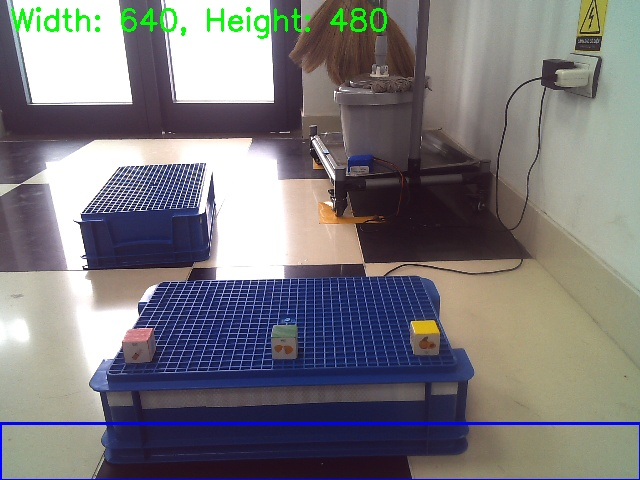
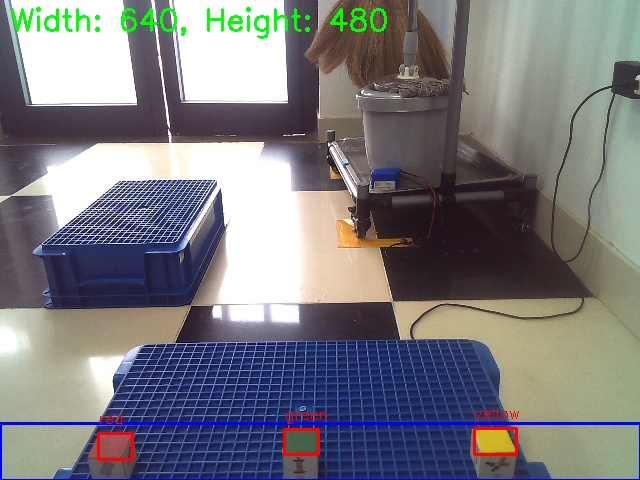
juan

diff --git a/tmp.py b/tmp.py
@@ -22,12 +22,10 @@ hold_angles = (90, 180, 0, 90, 90, 132)
 #     'yellow':[(10, 100, 100), (35, 255, 255)],
 # }
 color_ranges = {
-    #'red':   [(170, 70, 50), (180, 255, 255)],
-    # 'green': [(35, 40, 40),  (85, 255, 255)],
-    #'green': [(35, 80, 50), (85, 255, 255)],
+    'red':   [(170, 70, 50), (180, 255, 255)],
+    'green': [(30, 60, 50), (85, 255, 255)],
+    # 'green': [(40, 80, 50), (85, 255, 255)],
     'yellow':[(10, 100, 100), (35, 255, 255)],
-    'red':   [(0, 45, 35),   (12, 255, 255)],
-    'green': [(45, 45, 30),  (90, 255, 255)],
 }
 
 
@@ -70,12 +68,12 @@ if bb:
     print(f'[INFO] Detected bounding boxes: {bb} after running {traveled_result[0]:.2f}')
 
     _, _, yaw = bot.get_imu_attitude_data()
-    run_straight_robot(bot, target_yaw=yaw, base_speed=20, target_distance=0.036)
+    run_straight_robot(bot, target_yaw=yaw, base_speed=20, target_distance=0.03)
     rotate_robot(bot, 90, spd=0.2, delay=1)      # Rotate LEFT
 
     for box in bb:
         if box[0] == color:
-            speed_adjust, dist_adjust = calib_range(dist_calib, box[1], adj=0.2)
+            speed_adjust, dist_adjust = calib_range(dist_calib, box[1], adj=0.18)
             print(f'[INFO] Adjusted distance requirement: {dist_adjust:.2f} m')
     
     _, _, yaw = bot.get_imu_attitude_data()

diff --git a/utils.py b/utils.py
@@ -32,7 +32,7 @@ def normalize_angle(angle):
 def calib_range(dist_calib, bb_pxl, adj):
     position = 320 - (bb_pxl[0] + bb_pxl[2]/2)
     dist_adjust = position * dist_calib
-    dist_adjust = dist_adjust - adj if dist_adjust > 0 else dist_adjust - adj + 0.01
+    dist_adjust = dist_adjust - adj if dist_adjust > 0 else dist_adjust - adj + 0.03
     speed_adjust = 20 if dist_adjust > 0 else -20
     return speed_adjust, dist_adjust
 
@@ -187,7 +187,7 @@ def run_Cam_thread(id=2, height=480, width=640, height_ratio=0.12, process_every
     box_detection_counts = {}  # (color, x, y, w, h) -> count
     color_confirmed_boxes = {}  # color -> (x, y, w, h)
 
-    while time.time() - start_time < 20:
+    while time.time() - start_time < 10:
         ret, frame = cap.read()
         if not ret:
             print(f'Can not receive frame from camera {id}')